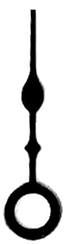
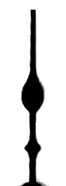
teardrop second hand

Changed region(s): [[0.0303, 0.2151, 0.9697, 1.0], [0.5152, 0.2419, 0.697, 0.6989], [0.4545, 0.0269, 0.5455, 0.1882]]

diff --git a/config_watch.py b/config_watch.py
@@ -160,7 +160,10 @@ hands = {
            ],
     'b' : [('hour', ('b_hour_hand.png', 'b', False, (33, 211), 0.27), None),
            ('minute', ('b_minute_hand.png', 'b', False, (24, 280), 0.27), None),
-           ('second', None, [('b', [(0, -5), (0, -75)])]),
+           #('second', None, [('b', [(0, -5), (0, -75)])]),
+           ('second', ('b_second_hand.png', 'b', False, (33, -23), 0.27),
+            [('b', [(0, -5), (0, -75)]),
+             ]),
            ],
     'c' : [('hour', ('c_hour_hand.png', 't%', False, (59, 434), 0.14), None),
            ('minute', ('c_minute_hand.png', 't%', False, (38, 584), 0.14), None),

diff --git a/resources/src/clock_faces/make_b_face.py b/resources/src/clock_faces/make_b_face.py
@@ -11,6 +11,8 @@ face.drawRing(1.1, width = 0.05)
 face.setFg(0)
 face.drawRing(1.1)
 face.drawRing(1.0)
+face.drawRing(0.093, width = 0.028)
+
 face.drawTicks(60, 0.95, 1.0, width = 0.003)
 face.drawTicks(12, 0.95, 1.0, width = 0.009)
 
@@ -27,7 +29,7 @@ face.save('b_face.png')
 
 print "date cards = %s" % (face.p2s(-cx, cy, cx, cy))
 
-if False:
+if True: #False:
     # Add the hands for illustrative purposes.
     pixelScale = face.handScaleToPixelScale(0.27)
     face.pasteImage((0, 0), '../clock_hands/b_hour_hand.png', (33, 211), pixelScale, rotate = 255)

diff --git a/src/wright.c b/src/wright.c
@@ -9,7 +9,7 @@
 
 PBL_APP_INFO(MY_UUID,
              WATCH_NAME, "drwrose",
-             1, 2, /* App version */
+             1, 3, /* App version */
              RESOURCE_ID_ROSE_ICON,
 #ifdef MAKE_CHRONOGRAPH
              APP_INFO_STANDARD_APP
